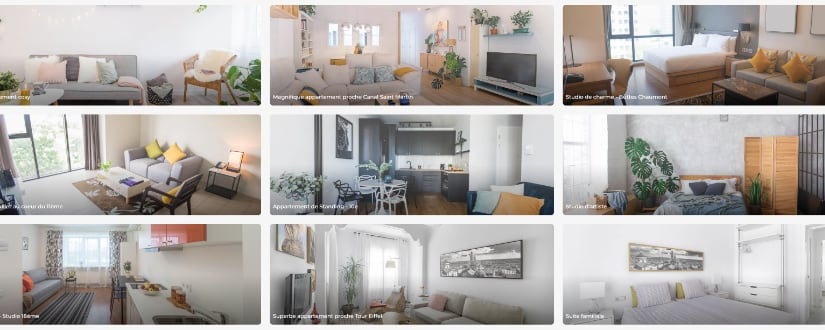
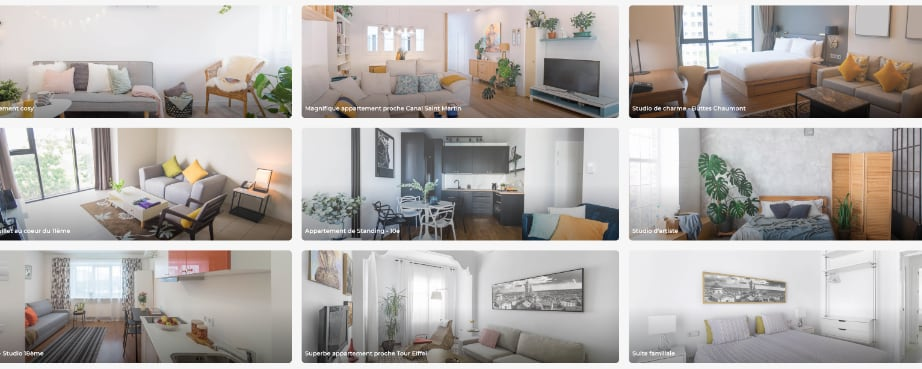
updated images

diff --git a/src/style/Home.scss b/src/style/Home.scss
@@ -28,14 +28,16 @@
 @include devices(tablet) {
 	.home--ts {
 		overflow-x: hidden;
-		// using 3 row allow the desired layout
 		grid-template-rows: repeat(3, auto);
 		gap: 7%;
+		// correct a shift on tablet
+		height: 75vh;
 	}
 }
 @include devices(mobile) {
 	.home--ts {
 		gap: 10px;
+		height: unset;
 		& .square-background {
 			display: none;
 		}

diff --git a/src/css/Home.css b/src/css/Home.css
@@ -109,11 +109,13 @@
     overflow-x: hidden;
     grid-template-rows: repeat(3, auto);
     gap: 7%;
+    height: 75vh;
   }
 }
 @media (max-width: 600px) and (hover: none) {
   .home--ts {
     gap: 10px;
+    height: unset;
   }
   .home--ts .square-background {
     display: none;

diff --git a/src/css/projects.css b/src/css/projects.css
@@ -456,10 +456,6 @@
     background-color: unset;
     padding: 0;
   }
-  .projects--ts .project--ts .figure--ts .image--ts {
-    -o-object-fit: cover;
-    object-fit: cover;
-  }
   .projects--ts .project--ts .figure--ts .caption--ts {
     top: 25px;
     left: 28px;

diff --git a/src/style/projects.scss b/src/style/projects.scss
@@ -185,10 +185,6 @@
 				border: 1px solid $fourth-color;
 				background-color: unset;
 				padding: 0;
-				& .image--ts {
-					-o-object-fit: cover;
-					object-fit: cover;
-				}
 				& .caption--ts {
 					top: 25px;
 					left: 28px;
